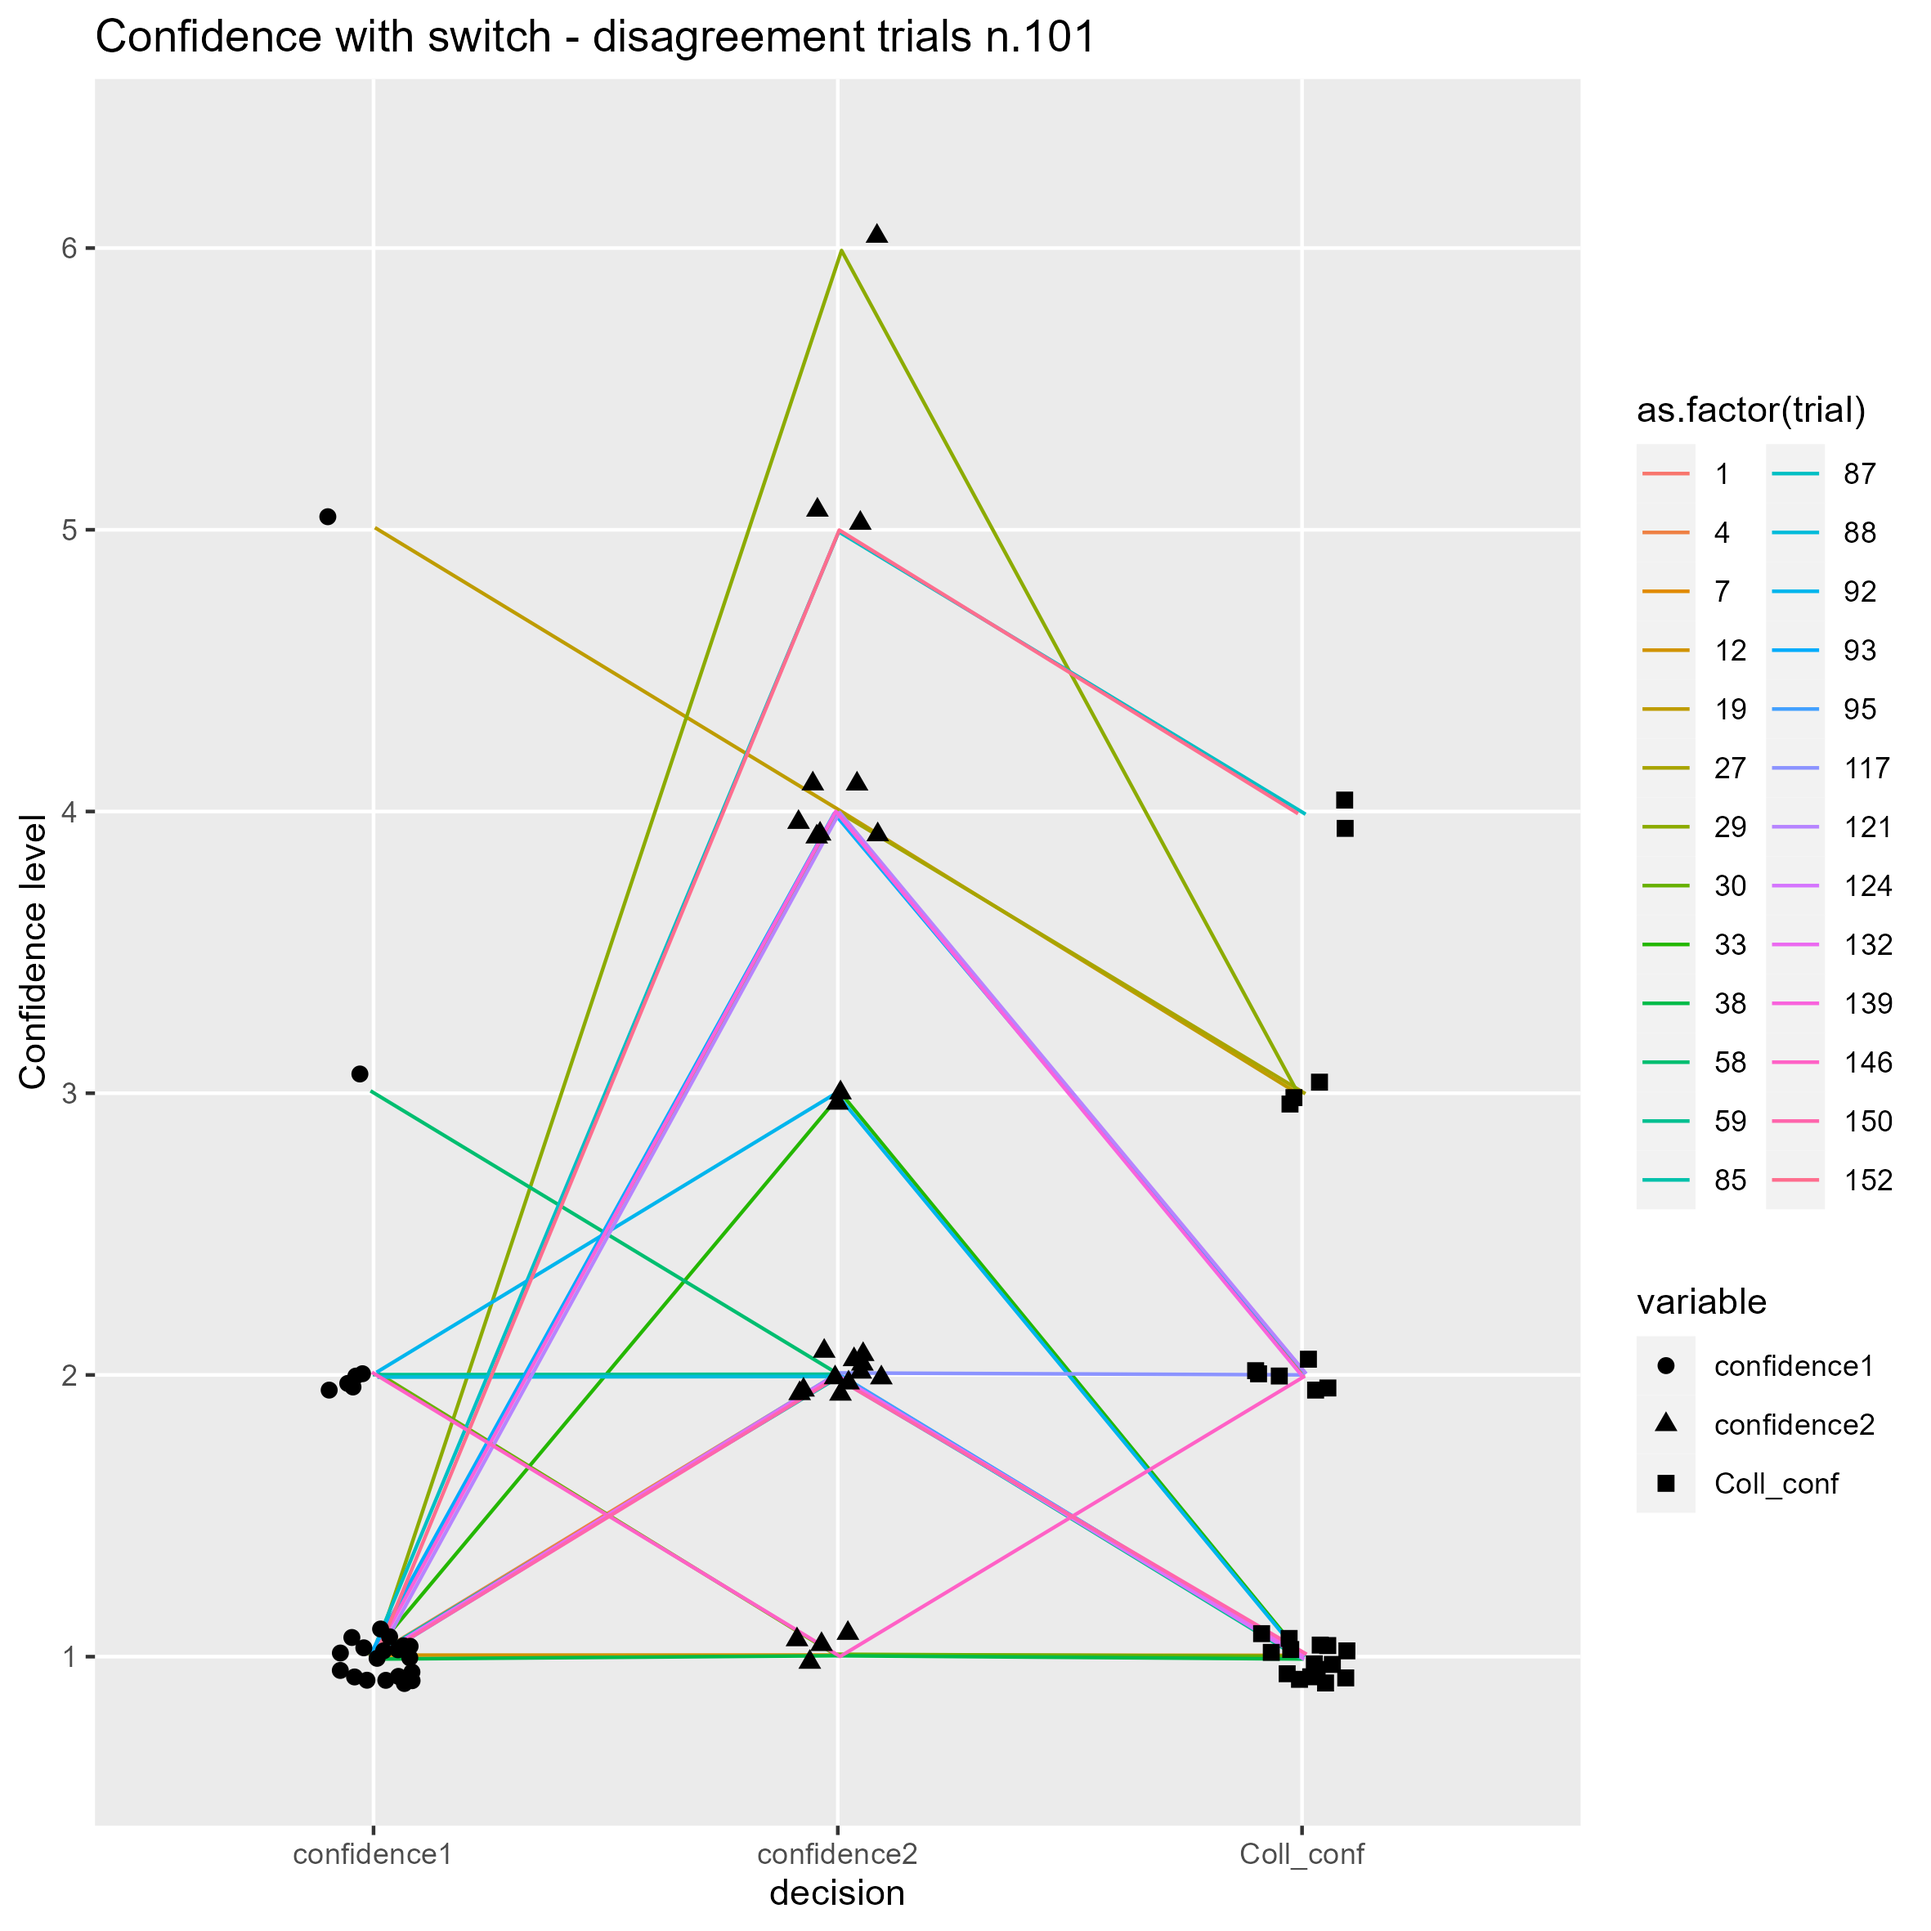
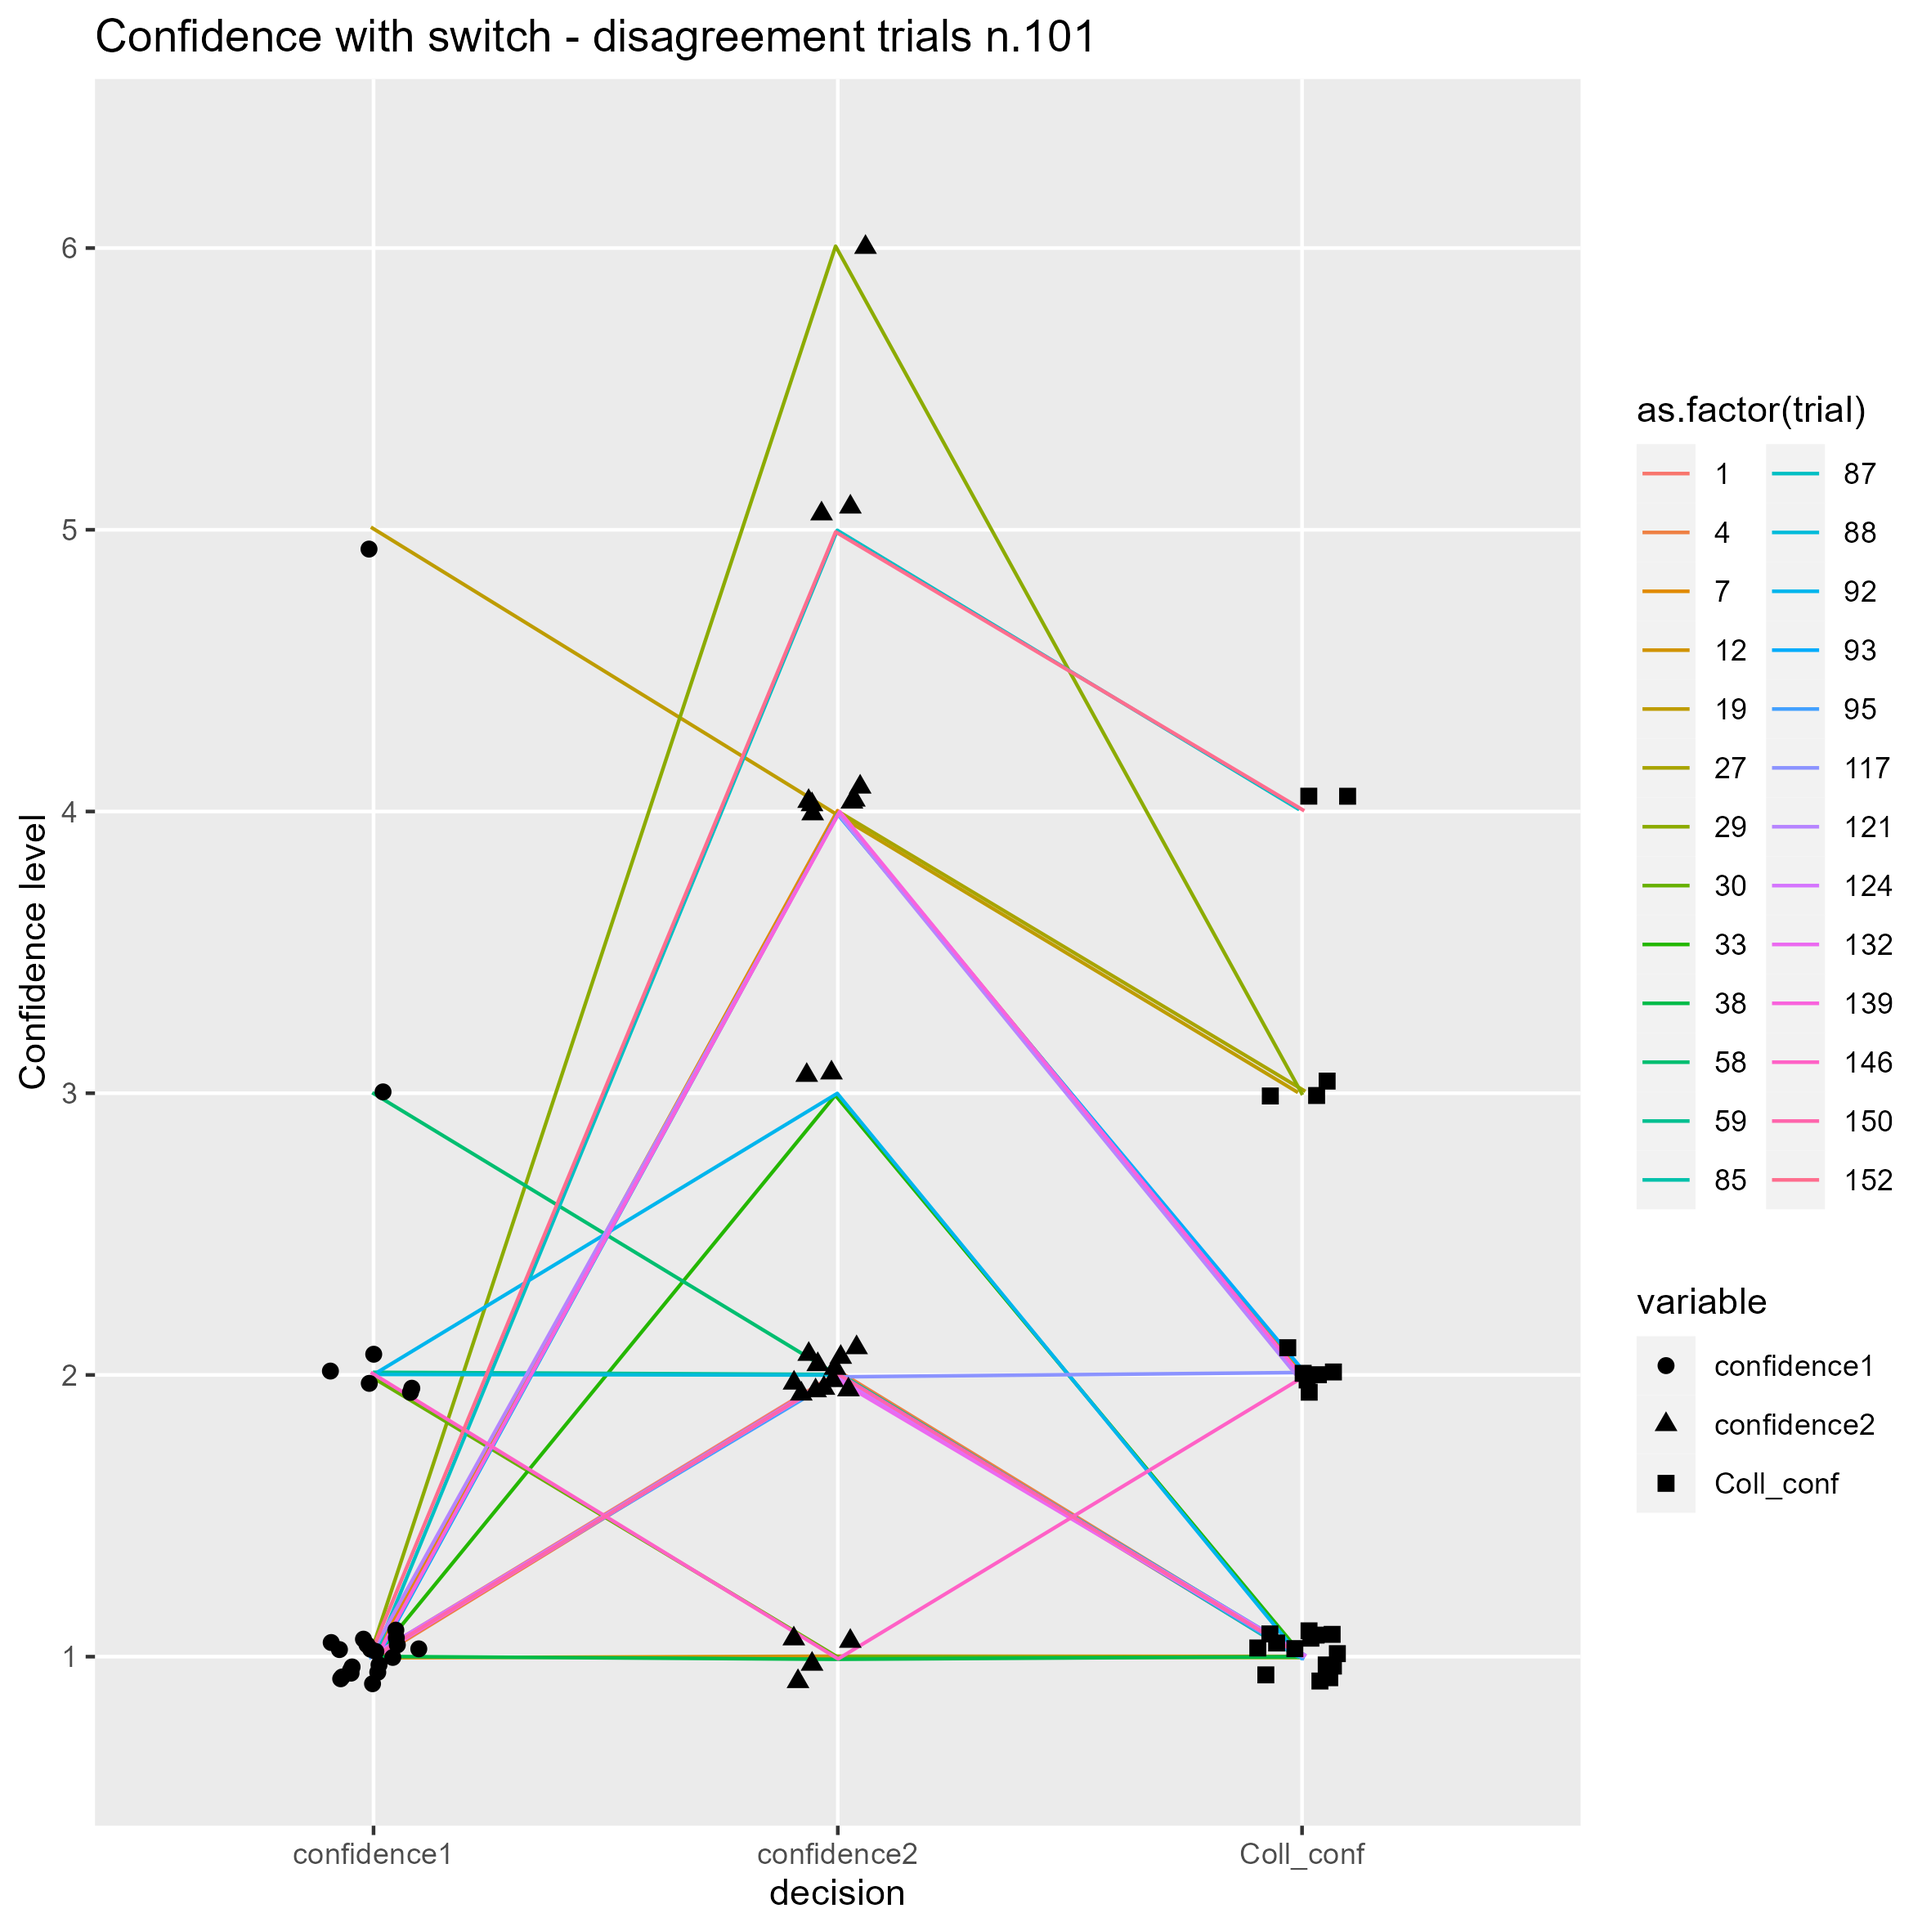
added output variables to movement_onset function to use them iin the calculus of kinematics variable

diff --git a/analyses/calc_kin_rt_mt.m b/analyses/calc_kin_rt_mt.m
@@ -1,0 +1,156 @@
+%% Joint motor decision exp. Pilot data Nov 2022.
+% Calculate the reaction time and movement time from kinematic data - wrist and index velocity
+clear
+close all
+
+
+%% Script to calculate the reaction time and movement time from kinematic data. Files from the pilot data acquired the 3-4 Nov 2022. Pairs from P100 to P103 - all the trials
+%path
+path_data = 'Y:\Datasets\JointMotorDecision\Static\Raw';
+path_kin  = fullfile(path_data,'..\Processed');
+%%
+path_temp = 'C:\Users\MMemeo\OneDrive - Fondazione Istituto Italiano Tecnologia\Desktop\jmd\';
+flag_pre  = 0;
+%%
+
+%% Load each processed mat file per subject
+folder_list  = dir(path_data);
+folder_list  = folder_list(~ismember({folder_list.name},{'.','..'}));
+%List of participants
+SUBJECTS     = {folder_list.name};
+SUBJECT_LIST = cellfun(@(s) find(contains(s,'P1')),SUBJECTS,'uni',0);
+SUBJECT_LIST = ~cellfun(@isempty,SUBJECT_LIST);
+SUBJECTS     = SUBJECTS(SUBJECT_LIST);
+
+%%
+% The information we need to calculate is the reaction time and movement time. They are already in the
+% excel file and they depend on the agent that is performing the decision: they were calculated according to the buttons release(rt) and press(mt).
+% We need to recalculate them based on the index/wrist speed threshold. 
+% For each row in the Excel file there are 3 decisions.
+% Retrieve the rt and mt for each trial. Trial order is always:
+% - ODD TRIAL  - agent1(individual decision)-agent2(individual decision)-agent1(collective decision)
+% - EVEN TRIAL - agent2-agent1-agent2
+
+for p = 1:length(SUBJECTS)
+
+    disp(['Start ' SUBJECTS{p}(2:end)])
+    clear v raw_clm
+    close all
+
+    % Create a table
+    raw_clm      = table();
+    varName_exp  = {'targetContrast','firstSecondInterval','targetLoc',...
+                    'A1_decision','A1_acc','A1_conf','A1_confRT',...
+                    'A2_decision','A2_acc','A2_conf','A2_confRT',...
+                    'Coll_decision','Coll_acc','Coll_conf','Coll_confRT',...
+                    'AgentTakingFirstDecision','AgentTakingSecondDecision','AgentTakingCollDecision'};
+
+    % set the path for the rt and mt variables
+    path_task      = fullfile(path_data,SUBJECTS{p},'task');
+    path_data_each = fullfile(path_data,SUBJECTS{p},['task\pilotData_' SUBJECTS{p}(2:end) '.xlsx'] );
+
+    %It loads the 'session' struct for each pair of participants
+    path_kin_each  = fullfile(path_kin,[SUBJECTS{p},'.mat']);
+
+    if p==3%we need to replace the following excel file in the repo
+        path_data_each = 'C:\Users\MMemeo\OneDrive - Fondazione Istituto Italiano Tecnologia\Desktop\pilotData_102.xlsx';
+    end
+
+    tic
+    load(path_kin_each);
+    toc
+
+    %Remove trials in 'session' cell to avoid inserting the (last?) trials in
+    %which there's no 'marker' field
+    mark           = cell2mat(cellfun(@(s) isfield(s,'markers'),session,'uni',0));
+    sMarkers       = session(mark);
+
+    % Open the excel file to check who's performing the 2nd trial and choose the reaction time of the complementar agent.
+    % If you check column 'AgentTakingFirstDecision' you already have the
+    % agent whose reaction time you need to use for the video.
+    [~,txt_or,raw]    = xlsread(path_data_each);
+    raw               = raw(2:end,:);%removed the header
+    txt               = [txt_or {'rt_final1' 'rt_final2' 'rt_finalColl' 'mt_final1' 'mt_final2' 'mt_finalColl'}];
+    data              = cell2table(raw);
+    data.rt_final1    = zeros(length(raw),1);
+    data.rt_final2    = zeros(length(raw),1);
+    data.rt_finalColl = zeros(length(raw),1);
+    data.mt_final1    = zeros(length(raw),1);
+    data.mt_final2    = zeros(length(raw),1);
+    data.mt_finalColl = zeros(length(raw),1);
+
+    %Retrieve the agents acting for each decision
+    at1stDec_ind   = strcmp('AgentTakingFirstDecision',txt);
+    at1stDec       = cell2mat(raw(:,at1stDec_ind));
+    at2ndDec_ind   = strcmp('AgentTakingSecondDecision',txt);
+    at2ndDec       = cell2mat(raw(:,at2ndDec_ind));
+    atCollDec_ind  = strcmp('AgentTakingCollDecision',txt);
+    atCollDec      = cell2mat(raw(:,atCollDec_ind));
+
+    %
+    faa = 1;
+    saa = 2;
+    caa = 3;
+
+    for t = 1:length(raw)
+
+        agentExec1    = ['a' num2str(at1stDec(t))]; %the first agent acting
+        agentExec2    = ['a' num2str(at2ndDec(t))]; 
+        agentExecColl = ['a' num2str(atCollDec(t))]; 
+
+        %function to calculate the movement onset and kinematic variables
+        %agent acting as first
+        label_agent = 'FIRSTDecision';
+        [rt_final1,mt_final1]=movement_onset(sMarkers,faa,SUBJECTS,p,agentExec1,label_agent,flag_pre);
+        movement_var(sMarkers,faa,SUBJECTS,p,agentExec1,label_agent,flag_pre);
+        faa = faa + 3;
+        %agent acting as first
+        label_agent = 'SECONDDecision';
+        [rt_final2,mt_final2]=movement_onset(sMarkers,saa,SUBJECTS,p,agentExec2,label_agent,flag_pre);
+        movement_var(sMarkers,saa,SUBJECTS,p,agentExec2,label_agent,flag_pre);
+        saa = saa + 3;
+        %agent acting as first
+        label_agent = 'COLLECTIVEDecision';
+        [rt_finalColl,mt_finalColl]=movement_onset(sMarkers,caa,SUBJECTS,p,agentExecColl,label_agent,flag_pre);
+        movement_var(sMarkers,caa,SUBJECTS,p,agentExecColl,label_agent,flag_pre);
+        caa = caa +3;
+        %%%
+
+        %function to calculate kinematic variables
+        %agent acting as first
+        label_agent = 'FIRSTDecision';
+        faa = faa + 3;
+        %agent acting as first
+        label_agent = 'SECONDDecision';
+        [rt_final2,mt_final2]=movement_onset(sMarkers,saa,SUBJECTS,p,agentExec2,label_agent,flag_pre);
+        saa = saa + 3;
+        %agent acting as first
+        label_agent = 'COLLECTIVEDecision';
+        [rt_finalColl,mt_finalColl]=movement_onset(sMarkers,caa,SUBJECTS,p,agentExecColl,label_agent,flag_pre);
+        caa = caa +3;
+        %%%
+
+        % Write the final rt in the excel file created during the
+        % acquisition
+        if p==2 && t==115 %participant moved before decision prompt
+            rt_final1 = NaN;
+            mt_final1 = NaN;
+        end
+        ol           = length(txt_or);
+        data{t,ol+1} = rt_final1;
+        data{t,ol+2} = rt_final2;
+        data{t,ol+3} = rt_finalColl;
+        data{t,ol+4} = mt_final1;
+        data{t,ol+5} = mt_final2;
+        data{t,ol+6} = mt_finalColl;
+        data.Properties.VariableNames = txt;
+        if flag_pre
+            writetable(data,fullfile(path_temp,['pilotData_' SUBJECTS{p}(2:end) '_withPre.xlsx']));
+        else
+            writetable(data,fullfile(path_temp,['pilotData_' SUBJECTS{p}(2:end) '.xlsx']));
+        end
+    end
+
+
+    clear sMarkers session
+end

diff --git a/analyses/movement_onset.m b/analyses/movement_onset.m
@@ -1,4 +1,4 @@
-function [rt_final,mt_final]=movement_onset(sMarkers,t,SUBJECTS,p,agentExec,label_agent,flag_pre)
+function [startFrame,rt_final,mt_final,endFrame]=movement_onset(sMarkers,t,SUBJECTS,p,agentExec,label_agent,flag_pre)
 
 % CHECK index and wrist velocity threshold
 frameRate  = sMarkers{t}.info.TRIAL.CAMERA_RATE{:};
@@ -64,11 +64,14 @@ if flag_pre %include preAcq because participants released button before decision
     rt_ulna  = (ulnaTh(1))/frameRate;
     rt_final = (startFrame)/frameRate;%rt_final should be = to the minimum value between rt_index or rt_ulna
 else
-    rt_index = (indexTh(1)-preAcq)/frameRate;
-    rt_ulna  = (ulnaTh(1)-preAcq)/frameRate;
-    rt_final = (startFrame-preAcq)/frameRate;%rt_final= to the minimum value between rt_index or rt_ulna
+    startFrame = (startFrame-preAcq);
+    rt_index   = (indexTh(1)-preAcq)/frameRate;
+    rt_ulna    = (ulnaTh(1)-preAcq)/frameRate;
+    rt_final   = startFrame/frameRate;%rt_final= to the minimum value between rt_index or rt_ulna
 end
-mt_final = ((samp(end)-10)-(startFrame))/frameRate;%mt_final=recording end(includes the preAcq) - 10frames(post acquisition set in Vicon) - startFrame(includes the preAcq)
+endFrame = (samp(end)-10);
+mt_final = (endFrame-startFrame)/frameRate;%mt_final=recording end(includes the preAcq) - 10frames(post acquisition set in Vicon) - startFrame(includes the preAcq)
+
 
 %In case the video lasts only 20 or 52 frames there was an issue
 %in the acquisition: the trial is discarded
